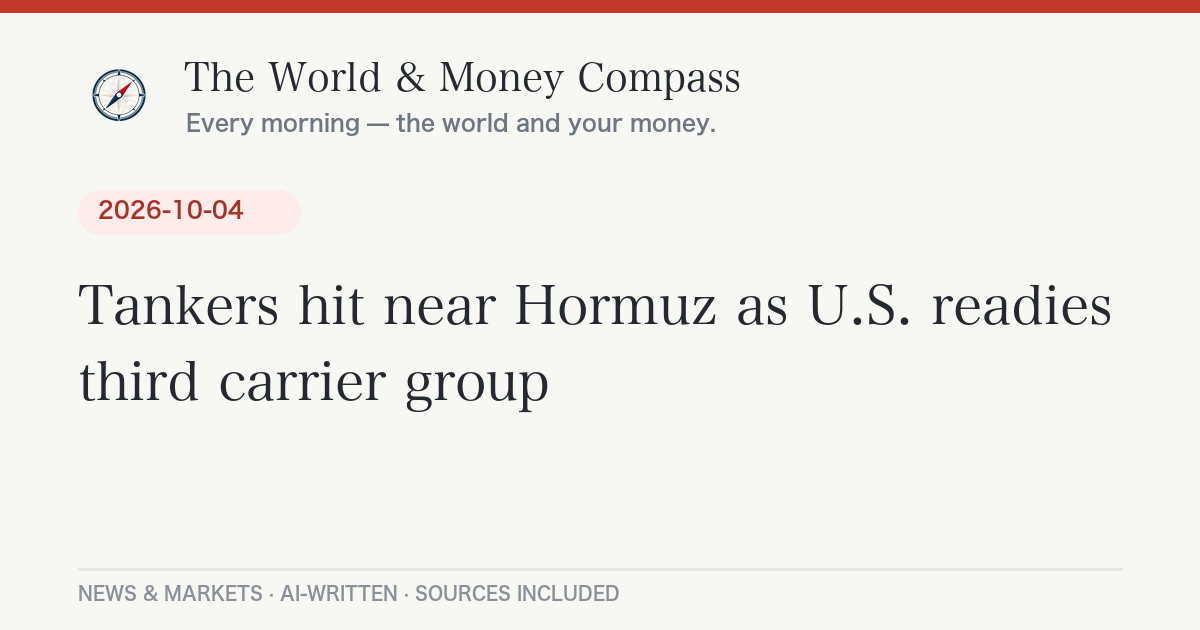
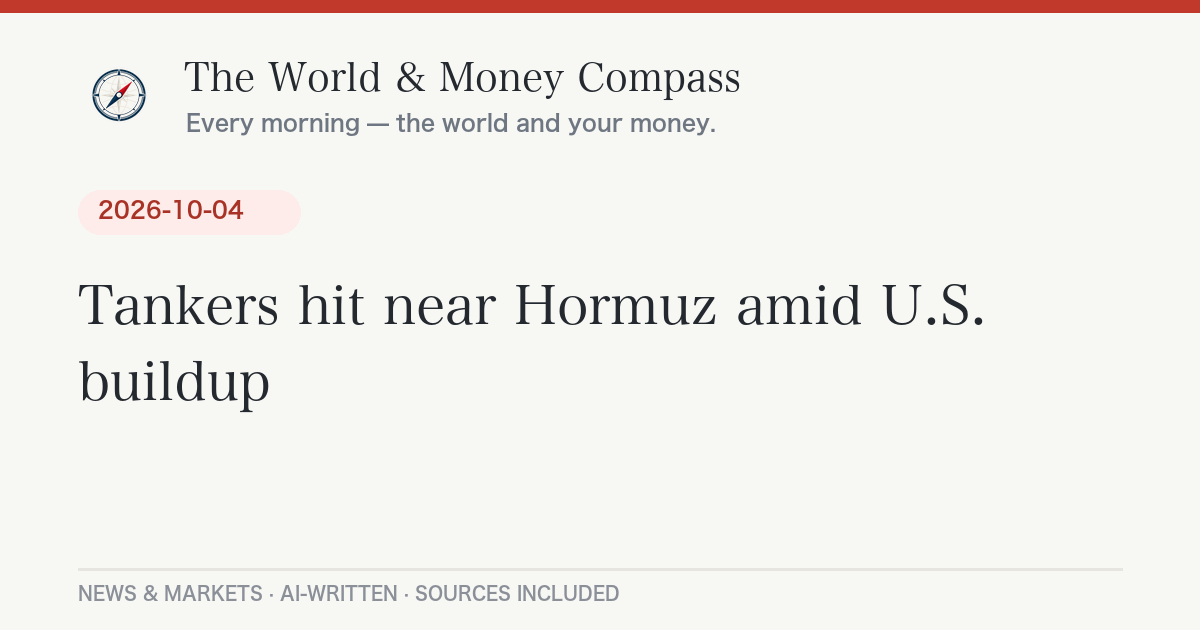
Daily briefing 2026-10-06

Changed region(s): [[0.0617, 0.573, 0.4625, 0.6635], [0.6167, 0.4524, 0.925, 0.5127]]

diff --git a/_posts/2026-10-06-daily-briefing.md b/_posts/2026-10-06-daily-briefing.md
@@ -1,0 +1,108 @@
+---
+layout: post
+lang: ja
+title: "スペインが11月に解散総選挙、日経平均は一時7万円回復｜10月6日のニュースとお金"
+date: 2026-10-06 07:41:06 +0900
+categories: [ニュース, 経済]
+headline: "スペインが11月に解散総選挙、日経平均は一時7万円回復"
+permalink: /2026/10/06/daily-briefing/
+---
+
+## 今日のポイント
+
+スペインのサンチェス首相が、住宅対策の否決を受けて11月29日に解散総選挙を行うと発表しました。ブラジル大統領選は全票の集計が終わり、ボルソナロ氏が首位で25日の決選投票へ進みます。東京市場では米国の利上げ観測が弱まったことを受けて半導体株が買われ、日経平均は約3カ月ぶりに一時7万円台を回復しました。
+
+## 今日の羅針盤（Compass Insight）
+
+週明けの相場は「選挙リスクより金利の一服」を選びました。スペインの解散、ブラジルの決選投票と、政治のイベントは増えています。それでも株価が上がったのは、先週の弱い米雇用統計で「米国がさらに利上げする」という見方が後退したからです。株にとって一番重いのは政治の行方よりも金利だ、ということがあらためて見えた一日でした。
+
+ただ、安心するのはまだ早そうです。米国の10年国債利回りは5%台前半のままで、5日発表の米サービス業の景況感では仕入れ価格の指数が高い水準にとどまりました。インフレの火種は消えていません。原油もWTIは下がったとはいえ1バレル80ドル台後半、北海ブレントは100ドル台で、ホルムズ海峡の封鎖は続いています。
+
+家計への影響としては、1ドル157〜158円の円安と高い原油が重なり、冬の灯油・電気・ガス代やガソリン代は高止まりしやすい状況です。一方、株高は投資信託やNISAの評価額にはプラスに働いています。住宅ローンを持つ人にとっては、日銀の次の利上げの時期が変動金利に響きます。
+
+短期では、きょう6日の植田日銀総裁のあいさつで追加利上げに前向きな発言が出るかが最大の注目点です。中長期では、ホルムズ海峡と原油、そして11月の米中間選挙・スペイン総選挙に向けた政治の変化が、相場の流れを左右する可能性があります。
+
+## 今日のニュース
+
+### 日本
+
+- **日経平均、約3カ月ぶりに一時7万円台**：5日の東京市場で日経平均は大きく上がり、午前中に7万円を超えました。取引時間中に7万円台をつけるのは7月6日以来です（[NHK](https://news.web.nhk/newsweb/na/nd-20261005de54437)／[時事ドットコム](https://www.jiji.com/jc/article?k=2026100500265&g=flash)）。終値は[6万9,946円86銭](https://kabutan.jp/news/marketnews/?b=n202610050958)で、前の週末より1,637円40銭高でした。
+- **高市首相が所信表明演説、「経済最優先」を強調**：首相は5日、衆参両院で所信表明演説を行い、経済成長を最優先にする姿勢を示しました。食料品の消費税を引き下げる法案への理解を求め、中国を「重要な隣国」と位置づけて安定した関係づくりを掲げました（[時事ドットコム](https://www.jiji.com/jc/article?k=2026100500557&g=pol)／[AFPBB](https://www.afpbb.com/articles/-/3656120)）。
+- **非常に強い台風27号、小笠原で高波に警戒**：台風27号は5日に中心気圧925ヘクトパスカルまで発達し、小笠原近海を北上しています。6日にかけて小笠原諸島では8メートルの高波が予想され、関東や東北の沿岸でも波が高くなる見込みです（[tenki.jp](https://tenki.jp/forecaster/y_nakagawa/2026/10/05/40859.html)／[NHK](https://news.web.nhk/newsweb/na/nd-20261005de54409)）。
+
+### 世界
+
+- **ブラジル大統領選、全票集計でボルソナロ氏が首位**：選挙高等裁判所（TSE）の集計が5日未明に終わり、フラビオ・ボルソナロ氏が得票率47.03%、ルラ大統領が45.16%で、約222万票の差がつきました。2人は10月25日の決選投票に進みます（[CartaCapital](https://www.cartacapital.com.br/politica/tse-encerra-apuracao-do-1o-turno/)／[France 24](https://www.france24.com/en/americas/20261005-brazil-presidential-election-runoff-bolsonaro-lula)）。選挙前の世論調査ではルラ氏が首位という見方が多く、予想を覆す結果でした。
+- **ホルムズ海峡、タンカーへの攻撃が続く**：4日にはオマーン沖でリベリア船籍のタンカーが被弾し、機関室が損傷しました。イランの革命防衛隊系のメディアは、この7日間で「違反船」13隻を標的にしたと伝えています。一方で、米艦の護衛や洋上での積み替えにより、中東からの原油輸出は2月の開戦前の水準を上回るまで戻っています（[NBC News](https://www.nbcnews.com/business/energy/hormuz-oil-exports-increase-ship-attacks-rcna601597)）。
+
+### アメリカ
+
+- **最高裁が新会期入り、初日は気候変動訴訟**：連邦最高裁は5日、コロラド州ボルダー郡などが石油大手サンコアとエクソンモービルを訴えた裁判の口頭弁論で新しい会期を始めました。温室効果ガスの被害を州の法律で訴えられるかが争点で、同じような訴訟は全米で数十件起きています（[CBS News](https://www.cbsnews.com/news/supreme-court-new-term-2026-climate-change-immigration-guns/)／[Earthjustice](https://earthjustice.org/brief/2026/what-to-know-about-suncor-energy-v-boulder-county)）。
+- **財務省、イランと取引する外国の金融機関に警告**：米財務省は、イランやその金融部門との取引を続ける外国の金融機関は、事前の通知なしに制裁対象になりうると警告しました（[Times of Israel](https://www.timesofisrael.com/liveblog-october-5-2026/)）。
+- **サービス業の景況感は拡大を維持**：9月のISM非製造業景況指数は[54.9](https://www.prnewswire.com/news-releases/services-pmi-at-54-9-september-2026-ism-services-pmi-report-302898421.html)で、8月の55.4から少し下がったものの、27カ月連続で景気の良し悪しの境目である50を上回りました。
+
+### ヨーロッパ
+
+- **スペイン、11月29日に解散総選挙**：サンチェス首相は5日、少数与党が出した住宅対策の政令が議会で否決されたことを受けて、総選挙を11月29日に行うと発表しました（[Euronews](https://www.euronews.com/2026/10/05/pedro-sanchez-calls-early-elections-in-spain-after-defeat-of-housing-decrees)／[Al Jazeera](https://www.aljazeera.com/news/2026/10/5/spanish-prime-minister-pedro-sanchez-announces-snap-election)）。社会労働党と左派スマルの連立は350議席中147議席しかなく、世論調査では国民党（PP）と極右ボックスによる政権の可能性が高いとされています。
+- **ロシアがウクライナへの攻撃を強化、米国は3者協議を提案**：ハルキウでは誘導爆弾で5人が死亡し、キーウの橋への攻撃も続いています。ゼレンスキー大統領は、米国が10月中に新たな3者和平協議を提案し、ウクライナは前向きに応じたと明らかにしました。ドイツは迎撃ドローンを含む約14.6億ドルの支援を表明しています（[CNBC](https://www.cnbc.com/2026/10/05/ukraine-war-russia-kyiv-putin-zelenskyy-trump.html)）。
+
+## 経済とお金の動き
+
+### 世界の経済と原油・相場
+
+株価・原油は10月5日（月）の終値、前日比は2日（金）終値との比較です。
+
+| 指標 | 値 | 前日比 |
+|---|---|---|
+| 日経平均株価 | [69,946.86円](https://kabutan.jp/news/marketnews/?b=n202610050958) | <span class="chg-up">+1,637.40円（+2.40%）</span> |
+| NYダウ | [51,267.90ドル](https://www.cnbc.com/2026/10/04/stock-market-today-live-updates.html) | <span class="chg-up">+90.94ドル（+0.18%）</span> |
+| S&P500 | [7,773.95](https://finance.yahoo.com/quote/%5EGSPC/) | <span class="chg-up">+51.23（+0.66%）</span> |
+| ナスダック総合 | [27,477.31](https://www.cnbc.com/2026/10/05/stocks-making-the-biggest-moves-midday-msft-spcx-pcvx-bbd-dkng.html) | <span class="chg-up">+286.45（+1.05%）最高値</span> |
+| WTI原油 | [89.24ドル/バレル](https://tradingeconomics.com/commodity/crude-oil) | <span class="chg-down">-2.05%</span> |
+| 北海ブレント原油 | [101.31ドル/バレル](https://tradingeconomics.com/commodity/brent-crude-oil) | <span class="chg-down">-0.92%</span> |
+| ドル円（ECB参照値、10/5） | [158.23円](https://api.frankfurter.app/latest?from=USD&to=JPY) | 東京市場17時は[157円65〜67銭](https://news.web.nhk/newsweb/na/nd-20261005de54797) |
+
+原油は、ホルムズ海峡での攻撃が続く一方で、中東からの輸出量が戻っているという報道もあり、WTIは2%ほど下がりました。それでも北海ブレントは100ドルを超えたままで、1年前と比べると5割以上高い水準です（[Trading Economics](https://tradingeconomics.com/commodity/brent-crude-oil)）。
+
+### アメリカの経済
+
+ナスダックは最高値を更新しました。マイクロソフトなど大型ハイテク株が買われ、原油や金利の高さへの不安を上回りました。ただし米10年国債利回りは[5.3%前後](https://www.bbntimes.com/global-economy/s-p-500-climbs-0-66-to-7-773-95-as-tech-shrugs-off-a-5-3-10-year-treasury-yield)まで上がっています。ISMのサービス業指数は景気拡大を示した一方、仕入れ価格の指数は[74](https://hollowpointtrading.substack.com/p/september-services-growth-eased-while)と高く、インフレへの警戒は続きそうです。「景気は底堅いが、物価も下がりにくい」という組み合わせは、利下げも利上げも決めにくい状態といえます。
+
+### 日本の経済
+
+日経平均は、米国の追加利上げ観測が後退したことをきっかけにAI・半導体株に買いが集まり、大きく上がりました。アドバンテストは上場来高値を更新し、東京エレクトロン、ファーストリテイリング、ソフトバンクグループとともに指数を押し上げました（[media-IR](https://www.media-ir.com/news/?p=183813)／[ゴールドオンライン](https://news.yahoo.co.jp/articles/880ddf60901ccc132cd71df3c947efa432a2b7cd)）。ただし、上げ幅の多くは一部の値がさ株によるもので、相場全体に広がった上昇かどうかは見極めが必要です。日銀は9月に政策金利を[1.25%](https://gaitame.com/media/entry/2026/10/02/173855)へ引き上げており、きょう6日の植田総裁のあいさつで次の利上げへの手がかりが出るかに注目が集まります。
+
+## 今日の注目銘柄・セクター
+
+- **半導体関連（アドバンテスト、東京エレクトロンなど）**：米国の利上げ観測の後退を受けて、日経平均の上昇を主導しました。アドバンテストは上場来高値を連日で更新しています（[ゴールドオンライン](https://news.yahoo.co.jp/articles/880ddf60901ccc132cd71df3c947efa432a2b7cd)）。
+- **ブラジル関連株**：大統領選でボルソナロ氏が首位に立ったことを受け、米国上場のイタウ・ウニバンコ株は16%、ブラデスコ銀行株は19%上がりました（[CNBC](https://www.cnbc.com/2026/10/05/stocks-making-the-biggest-moves-midday-msft-spcx-pcvx-bbd-dkng.html)）。市場は決選投票の結果を先取りしている面があり、25日に向けて値動きが大きくなる可能性があります。
+- **PTC（米ソフトウエア）**：仏シュナイダーエレクトリックが1株205ドル、株式価値で220億ドル超で買収することで合意し、株価は約36%上がりました（[CNBC](https://www.cnbc.com/2026/10/05/stocks-making-the-biggest-moves-premarket-dkng-itub-ptc.html)）。製造業のデジタル化をめぐる大型買収です。
+- **バクサイト（米バイオ）**：50歳以上を対象にした肺炎球菌ワクチンの最終段階の臨床試験で良い結果を発表し、株価は約30%上がりました（[CNBC](https://www.cnbc.com/2026/10/05/stocks-making-the-biggest-moves-midday-msft-spcx-pcvx-bbd-dkng.html)）。
+
+*※特定銘柄の売買を推奨するものではありません。投資判断はご自身の責任で。*
+
+## まとめ：注目の3つ
+
+1. **植田日銀総裁のあいさつ（6日）**：追加利上げに前向きな発言が出れば、円高・株安の材料になる可能性があります。
+2. **ホルムズ海峡と原油**：ブレントは100ドル台が続いています。攻撃と輸出回復のどちらが勝つかが、冬のエネルギー代を左右します。
+3. **選挙が続く秋**：ブラジル決選投票（25日）、米中間選挙（11月）、スペイン総選挙（11月29日）と、政治の節目が続きます。
+
+---
+<div class="post-sources" markdown="1">
+
+**出典：**
+- [株探・日経平均 大引け（10月5日）](https://kabutan.jp/news/marketnews/?b=n202610050958)
+- [NHK・株価 3か月ぶりに7万円台回復](https://news.web.nhk/newsweb/na/nd-20261005de54437)
+- [時事ドットコム・高市首相 所信表明演説](https://www.jiji.com/jc/article?k=2026100500557&g=pol)
+- [tenki.jp・台風27号 小笠原諸島は6日にかけて高波に警戒](https://tenki.jp/forecaster/y_nakagawa/2026/10/05/40859.html)
+- [CartaCapital・TSE encerra apuração do 1º turno](https://www.cartacapital.com.br/politica/tse-encerra-apuracao-do-1o-turno/)
+- [Euronews・Spain's Sánchez calls snap election for 29 November](https://www.euronews.com/2026/10/05/pedro-sanchez-calls-early-elections-in-spain-after-defeat-of-housing-decrees)
+- [NBC News・Tanker attacks are escalating in the Strait of Hormuz](https://www.nbcnews.com/business/energy/hormuz-oil-exports-increase-ship-attacks-rcna601597)
+- [CNBC・Russia ramps up attacks on Ukraine](https://www.cnbc.com/2026/10/05/ukraine-war-russia-kyiv-putin-zelenskyy-trump.html)
+- [CNBC・Stocks making the biggest moves midday](https://www.cnbc.com/2026/10/05/stocks-making-the-biggest-moves-midday-msft-spcx-pcvx-bbd-dkng.html)
+- [PR Newswire・September 2026 ISM Services PMI Report](https://www.prnewswire.com/news-releases/services-pmi-at-54-9-september-2026-ism-services-pmi-report-302898421.html)
+- 市場データ: [frankfurter API](https://api.frankfurter.app/) ／ Yahoo Finance ／ [Trading Economics](https://tradingeconomics.com/commodity/crude-oil)
+
+*本記事は公開情報をもとに作成しています。*
+
+</div>

diff --git a/_posts/2026-10-06-daily-briefing-en.md b/_posts/2026-10-06-daily-briefing-en.md
@@ -1,0 +1,54 @@
+---
+layout: post
+lang: en
+title: "Nasdaq hits a record close as Supreme Court opens term with climate case — October 6, 2026"
+date: 2026-10-06 07:41:06 +0900
+headline: "Nasdaq hits a record close as Supreme Court opens term with climate case"
+permalink: /2026/10/06/daily-briefing/
+---
+
+## Top U.S. Stories
+
+- **Nasdaq closes at a record.** The Nasdaq Composite rose 1.05% to a record [27,477.31](https://www.cnbc.com/2026/10/05/stocks-making-the-biggest-moves-midday-msft-spcx-pcvx-bbd-dkng.html), while the S&P 500 gained 0.66% to 7,773.95 as big tech outweighed worries over oil and bond yields.
+  *Why it matters:* Stocks are rallying even with the 10-year Treasury yield near [5.3%](https://www.bbntimes.com/global-economy/s-p-500-climbs-0-66-to-7-773-95-as-tech-shrugs-off-a-5-3-10-year-treasury-yield) — a fragile mix if inflation data surprises.
+- **Supreme Court opens its new term with a major climate case.** Justices heard arguments in *Suncor Energy v. Boulder County*, where Suncor and ExxonMobil seek to end a Colorado lawsuit over climate damages ([CBS News](https://www.cbsnews.com/news/supreme-court-new-term-2026-climate-change-immigration-guns/)).
+  *Why it matters:* Dozens of similar suits by state and local governments could rise or fall on this ruling ([Earthjustice](https://earthjustice.org/brief/2026/what-to-know-about-suncor-energy-v-boulder-county)).
+- **Services sector keeps growing, but prices stay hot.** The ISM Services PMI came in at [54.9](https://www.prnewswire.com/news-releases/services-pmi-at-54-9-september-2026-ism-services-pmi-report-302898421.html) for September, down from 55.4 and the 27th straight month of expansion. The prices index stood at [74](https://hollowpointtrading.substack.com/p/september-services-growth-eased-while).
+  *Why it matters:* Sticky service-sector prices make it harder for the Fed to signal relief.
+- **Treasury warns foreign banks over Iran.** The Treasury Department told foreign financial institutions that continued business with Iran could bring sanctions without advance notice ([Times of Israel](https://www.timesofisrael.com/liveblog-october-5-2026/)).
+- **Brazil-linked stocks soar.** U.S.-listed shares of Itaú Unibanco and Banco Bradesco jumped 16% and 19% after Flávio Bolsonaro finished first in Brazil's presidential vote, setting up an October 25 runoff ([CNBC](https://www.cnbc.com/2026/10/05/stocks-making-the-biggest-moves-midday-msft-spcx-pcvx-bbd-dkng.html)).
+
+## Compass Insight
+
+Monday's message was simple: markets care more about rates than ballots. Spain called a snap election and Brazil heads to a runoff, yet stocks climbed because last week's weak jobs report cooled talk of another Fed hike. That relief is thin, though. Ten-year yields sit above 5%, and the ISM prices gauge shows inflation pressure has not gone away. Oil dipped, but Brent is still above $100 with the Strait of Hormuz closed. In the short term, watch Fed minutes and Treasury yields for signs that the "no more hikes" story is cracking. Over the longer run, the path of Hormuz shipping and the November midterms are likely to shape energy costs and market sentiment more than any single data point.
+
+## Markets
+
+- **Dow:** [51,267.90](https://www.cnbc.com/2026/10/04/stock-market-today-live-updates.html), up 90.94 points (+0.18%)
+- **S&P 500:** [7,773.95](https://finance.yahoo.com/quote/%5EGSPC/), +0.66%
+- **Nasdaq:** 27,477.31, +1.05% (record close)
+- **Oil:** WTI fell 2.05% to [$89.24](https://tradingeconomics.com/commodity/crude-oil); Brent slipped 0.92% to [$101.31](https://tradingeconomics.com/commodity/brent-crude-oil)
+- **Japan:** The Nikkei 225 jumped 2.40% to [69,946.86](https://kabutan.jp/news/marketnews/?b=n202610050958), briefly topping 70,000 for the first time in three months on chip-stock buying.
+
+## Stocks in Focus
+
+- **PTC** surged about 36% after agreeing to be acquired by Schneider Electric for $205 a share ([CNBC](https://www.cnbc.com/2026/10/05/stocks-making-the-biggest-moves-premarket-dkng-itub-ptc.html)).
+- **Vaxcyte** jumped about 30% on positive Phase 3 results for its adult pneumococcal vaccine ([CNBC](https://www.cnbc.com/2026/10/05/stocks-making-the-biggest-moves-midday-msft-spcx-pcvx-bbd-dkng.html)).
+- **DraftKings** rose over 5% after Bank of America upgraded it to buy (same source).
+
+---
+<div class="post-sources" markdown="1">
+
+**Sources:**
+- [CNBC — Stocks making the biggest moves midday](https://www.cnbc.com/2026/10/05/stocks-making-the-biggest-moves-midday-msft-spcx-pcvx-bbd-dkng.html)
+- [CNBC — Stock market news for Oct. 5, 2026](https://www.cnbc.com/2026/10/04/stock-market-today-live-updates.html)
+- [CBS News — Supreme Court gears up for new term](https://www.cbsnews.com/news/supreme-court-new-term-2026-climate-change-immigration-guns/)
+- [PR Newswire — September 2026 ISM Services PMI Report](https://www.prnewswire.com/news-releases/services-pmi-at-54-9-september-2026-ism-services-pmi-report-302898421.html)
+- [Times of Israel — Liveblog, October 5, 2026](https://www.timesofisrael.com/liveblog-october-5-2026/)
+- [Euronews — Spain's Sánchez calls snap election for 29 November](https://www.euronews.com/2026/10/05/pedro-sanchez-calls-early-elections-in-spain-after-defeat-of-housing-decrees)
+- [France 24 — Brazil presidential election heads to runoff](https://www.france24.com/en/americas/20261005-brazil-presidential-election-runoff-bolsonaro-lula)
+- Market data: [frankfurter API](https://api.frankfurter.app/) / Yahoo Finance / [Trading Economics](https://tradingeconomics.com/commodity/crude-oil)
+
+</div>
+
+*Auto-generated and AI-written. Not investment advice.*
